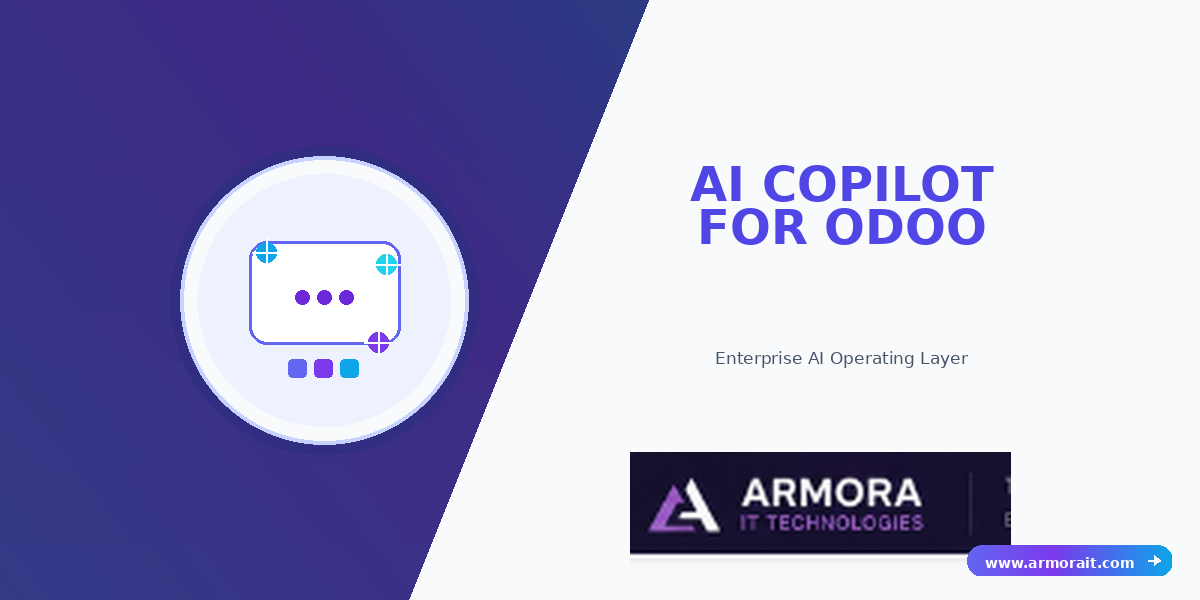
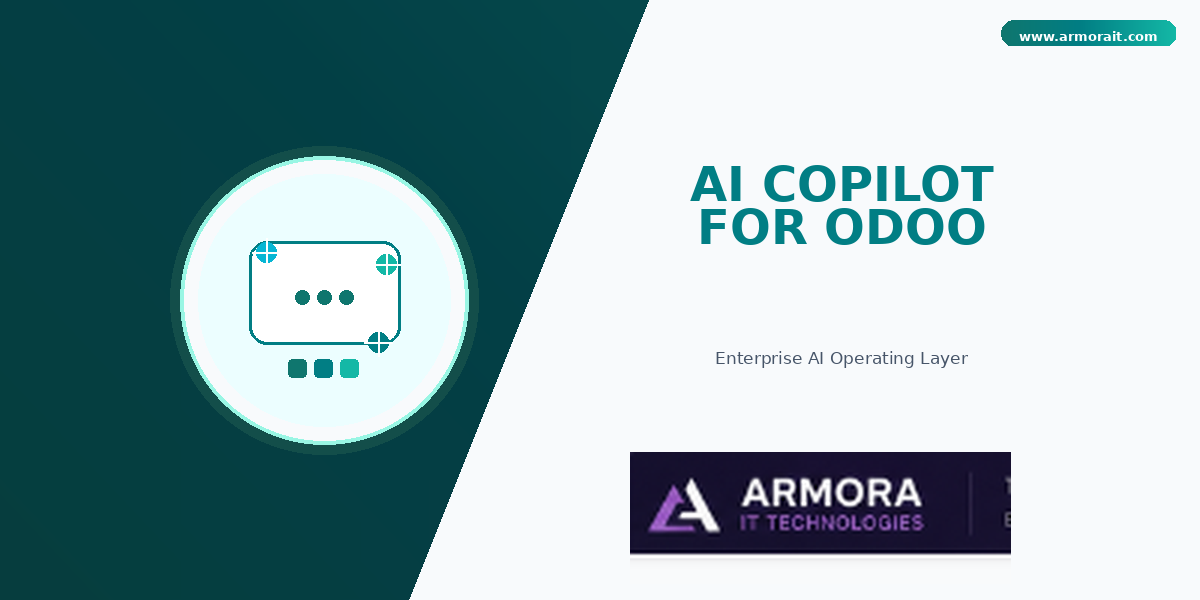
Fix Apps Store cover: teal-black palette, no overlap, no cursor.
Use teal on black left panel, move website pill to top-right, remove arrow/cursor from CTA.

diff --git a/rn_ai_employee/scripts/generate_demo_assets.py b/rn_ai_employee/scripts/generate_demo_assets.py
@@ -332,15 +332,16 @@ def draw_briefing_scene() -> Image.Image:
     return img
 
 
-# Apps Store listing cover (Serpent layout + Armorait rich gradient palette)
-NAVY_BLACK = '#081120'
+# Apps Store listing cover (Serpent layout + teal/black Armorait palette)
+BLACK_TEAL = '#041015'
+NAVY_BLACK = '#0a1628'
 NAVY_DEEP = '#0f172a'
-GRAD_START = '#6366f1'
-GRAD_MID = '#7c3aed'
-GRAD_END = '#0ea5e9'
-TITLE_INDIGO = '#4f46e5'
-TITLE_VIOLET = '#6d28d9'
-PANEL_GLOW = '#312e81'
+TEAL_DEEP = '#0f766e'
+TEAL_MAIN = '#017E84'
+TEAL_BRIGHT = '#14b8a6'
+TEAL_CYAN = '#06b6d4'
+TITLE_TEAL = '#017E84'
+PANEL_GLOW = '#134e4a'
 
 
 def _hex_to_rgb(value: str) -> tuple[int, int, int]:
@@ -353,28 +354,29 @@ def _lerp_rgb(a: tuple[int, int, int], b: tuple[int, int, int], t: float) -> tup
 
 
 def _gradient_rgb(t: float) -> tuple[int, int, int]:
-    """Armorait CTA gradient: indigo -> violet -> cyan."""
+    """Teal gradient wash: deep teal -> brand teal -> bright cyan."""
     t = max(0.0, min(1.0, t))
-    start, mid, end = _hex_to_rgb(GRAD_START), _hex_to_rgb(GRAD_MID), _hex_to_rgb(GRAD_END)
-    if t <= 0.42:
-        return _lerp_rgb(start, mid, t / 0.42)
-    return _lerp_rgb(mid, end, (t - 0.42) / 0.58)
+    start, mid, end = _hex_to_rgb(TEAL_DEEP), _hex_to_rgb(TEAL_MAIN), _hex_to_rgb(TEAL_BRIGHT)
+    if t <= 0.45:
+        return _lerp_rgb(start, mid, t / 0.45)
+    return _lerp_rgb(mid, end, (t - 0.45) / 0.55)
 
 
 def _build_rich_panel_gradient(w: int, h: int) -> Image.Image:
-    """Navy-black base with purple/cyan wash for a premium left panel."""
+    """Black-teal base with cyan/teal wash for a premium left panel."""
     panel = Image.new('RGB', (w, h))
     px = panel.load()
+    black = _hex_to_rgb(BLACK_TEAL)
     navy = _hex_to_rgb(NAVY_BLACK)
     deep = _hex_to_rgb(NAVY_DEEP)
     for y in range(h):
         ty = y / max(h - 1, 1)
         for x in range(w):
             tx = x / max(w - 1, 1)
-            glow_t = min(1.0, tx * 0.72 + (1.0 - ty) * 0.28)
+            glow_t = min(1.0, tx * 0.68 + (1.0 - ty) * 0.32)
             glow = _gradient_rgb(glow_t)
-            base = _lerp_rgb(navy, deep, ty * 0.55)
-            shade = 0.58 if tx < 0.55 else 0.72
+            base = _lerp_rgb(black, _lerp_rgb(navy, deep, ty * 0.5), tx * 0.35)
+            shade = 0.64 if tx < 0.55 else 0.78
             color = tuple(int(base[i] * shade + glow[i] * (1.0 - shade)) for i in range(3))
             px[x, y] = color
     return panel
@@ -403,7 +405,7 @@ def _draw_diagonal_cover_background(img: Image.Image, w: int, h: int) -> int:
         (split_top, 0),
         (split_bottom, h),
         (0, h),
-    ], fill=(99, 102, 241, 28))
+    ], fill=(1, 126, 132, 30))
     img.paste(glow, (0, 0), glow)
     return (split_top + split_bottom) // 2
 
@@ -415,7 +417,6 @@ def _draw_gradient_rounded_rect(
     text: str,
     font,
     text_color: str = WHITE,
-    arrow: bool = True,
 ) -> None:
     x1, y1, x2, y2 = box
     width = max(2, x2 - x1)
@@ -431,14 +432,9 @@ def _draw_gradient_rounded_rect(
     img.paste(grad, (x1, y1), mask)
     draw = ImageDraw.Draw(img)
     tw, th = _text_size(draw, text, font)
-    tx = x1 + 18
+    tx = x1 + (width - tw) // 2
     ty = y1 + (height - th) // 2
     draw.text((tx, ty), text, font=font, fill=text_color)
-    if arrow:
-        ax = x2 - 24
-        ay = y1 + height // 2
-        draw.line((ax, ay, ax + 12, ay), fill=text_color, width=2)
-        draw.polygon([(ax + 12, ay), (ax + 6, ay - 5), (ax + 6, ay + 5)], fill=text_color)
 
 
 def _draw_centered_title_block(
@@ -458,7 +454,7 @@ def _draw_centered_title_block(
             font = _font(size, True)
             tw, th = _text_size(draw, line, font)
         x = left + (right - left - tw) // 2
-        draw.text((x, cy), line, font=font, fill=TITLE_INDIGO)
+        draw.text((x, cy), line, font=font, fill=TITLE_TEAL)
         cy += th + 6
     return cy
 
@@ -467,24 +463,24 @@ def _draw_cover_illustration(draw: ImageDraw.ImageDraw, cx: int, cy: int, radius
     """Circular AI copilot illustration on the rich navy panel."""
     glow_r = radius + 10
     draw.ellipse((cx - glow_r, cy - glow_r, cx + glow_r, cy + glow_r), fill=PANEL_GLOW)
-    draw.ellipse((cx - radius, cy - radius, cx + radius, cy + radius), fill='#F8FAFC', outline='#C7D2FE', width=4)
+    draw.ellipse((cx - radius, cy - radius, cx + radius, cy + radius), fill='#F8FAFC', outline='#99F6E4', width=4)
     inner = radius - 18
-    draw.ellipse((cx - inner, cy - inner, cx + inner, cy + inner), fill='#EEF2FF')
+    draw.ellipse((cx - inner, cy - inner, cx + inner, cy + inner), fill='#ECFEFF')
 
     bubble_w, bubble_h = int(radius * 1.05), int(radius * 0.72)
     bx1, by1 = cx - bubble_w // 2, cy - bubble_h // 2 - 8
     bx2, by2 = bx1 + bubble_w, by1 + bubble_h
-    _rounded_rect(draw, (bx1, by1, bx2, by2), 18, WHITE, outline=GRAD_START, width=3)
+    _rounded_rect(draw, (bx1, by1, bx2, by2), 18, WHITE, outline=TEAL_MAIN, width=3)
     for dot_x in (cx - 22, cx, cx + 22):
-        draw.ellipse((dot_x - 7, cy - 10, dot_x + 7, cy + 4), fill=TITLE_VIOLET)
+        draw.ellipse((dot_x - 7, cy - 10, dot_x + 7, cy + 4), fill=TEAL_DEEP)
 
-    for sx, sy, color in ((cx - 58, cy - 48, GRAD_END), (cx + 62, cy - 36, '#22D3EE'), (cx + 54, cy + 42, GRAD_MID)):
+    for sx, sy, color in ((cx - 58, cy - 48, TEAL_CYAN), (cx + 62, cy - 36, TEAL_BRIGHT), (cx + 54, cy + 42, TEAL_MAIN)):
         draw.ellipse((sx - 10, sy - 10, sx + 10, sy + 10), fill=color)
         draw.line((sx - 14, sy, sx + 14, sy), fill=WHITE, width=2)
         draw.line((sx, sy - 14, sx, sy + 14), fill=WHITE, width=2)
 
     bar_y = cy + bubble_h // 2 + 8
-    for i, color in enumerate((GRAD_START, GRAD_MID, GRAD_END)):
+    for i, color in enumerate((TEAL_DEEP, TEAL_MAIN, TEAL_BRIGHT)):
         draw.rounded_rectangle((cx - 36 + i * 26, bar_y, cx - 18 + i * 26, bar_y + 18), radius=4, fill=color)
 
 
@@ -501,16 +497,15 @@ def _diagonal_split_x(w: int, h: int, y: int) -> int:
     return split_top + int((split_bottom - split_top) * (y / h))
 
 
-def _paste_armorait_logo(img: Image.Image, w: int, h: int) -> None:
-    """Paste large ARMORA logo bottom-center on white panel, beside navy diagonal."""
+def _paste_armorait_logo(img: Image.Image, w: int, h: int) -> tuple[int, int, int, int] | None:
+    """Paste large ARMORA logo bottom-center on white panel. Returns bounding box."""
     if not BRAND_LOGO.is_file():
-        return
+        return None
     logo = Image.open(BRAND_LOGO).convert('RGBA')
     pad_bottom = 16
     target_h = max(88, int(h * 0.22))
     target_w = int(logo.width * (target_h / logo.height))
-    split_bottom = int(w * 0.34)
-    max_w = int(w * 0.42)
+    max_w = int(w * 0.40)
     if target_w > max_w:
         target_w = max_w
         target_h = int(logo.height * (target_w / logo.width))
@@ -518,10 +513,10 @@ def _paste_armorait_logo(img: Image.Image, w: int, h: int) -> None:
 
     y = h - target_h - pad_bottom
     split_x = _diagonal_split_x(w, h, y + target_h // 2)
-    # Bottom center of cover, tucked beside navy diagonal
     x = split_x + max(16, (w - split_x - target_w) // 2)
     x = min(x, w - target_w - 16)
     img.paste(logo, (x, y), logo)
+    return (x, y, target_w, target_h)
 
 
 def draw_banner(w: int, h: int) -> Image.Image:
@@ -554,13 +549,14 @@ def draw_banner(w: int, h: int) -> Image.Image:
         fill='#475569',
     )
 
+    # Website pill top-right on white panel (avoids overlap with bottom logo)
     pill_text = 'www.armorait.com'
-    pill_font = _font(14, True)
+    pill_font = _font(13, True)
     tw, th = _text_size(draw, pill_text, pill_font)
-    pill_w = tw + 56
-    pill_h = th + 20
-    pill_x = w - pill_w - 28
-    pill_y = h - pill_h - 24
+    pill_w = tw + 36
+    pill_h = th + 16
+    pill_x = w - pill_w - 24
+    pill_y = 20
     _draw_gradient_rounded_rect(
         img,
         (pill_x, pill_y, pill_x + pill_w, pill_y + pill_h),
